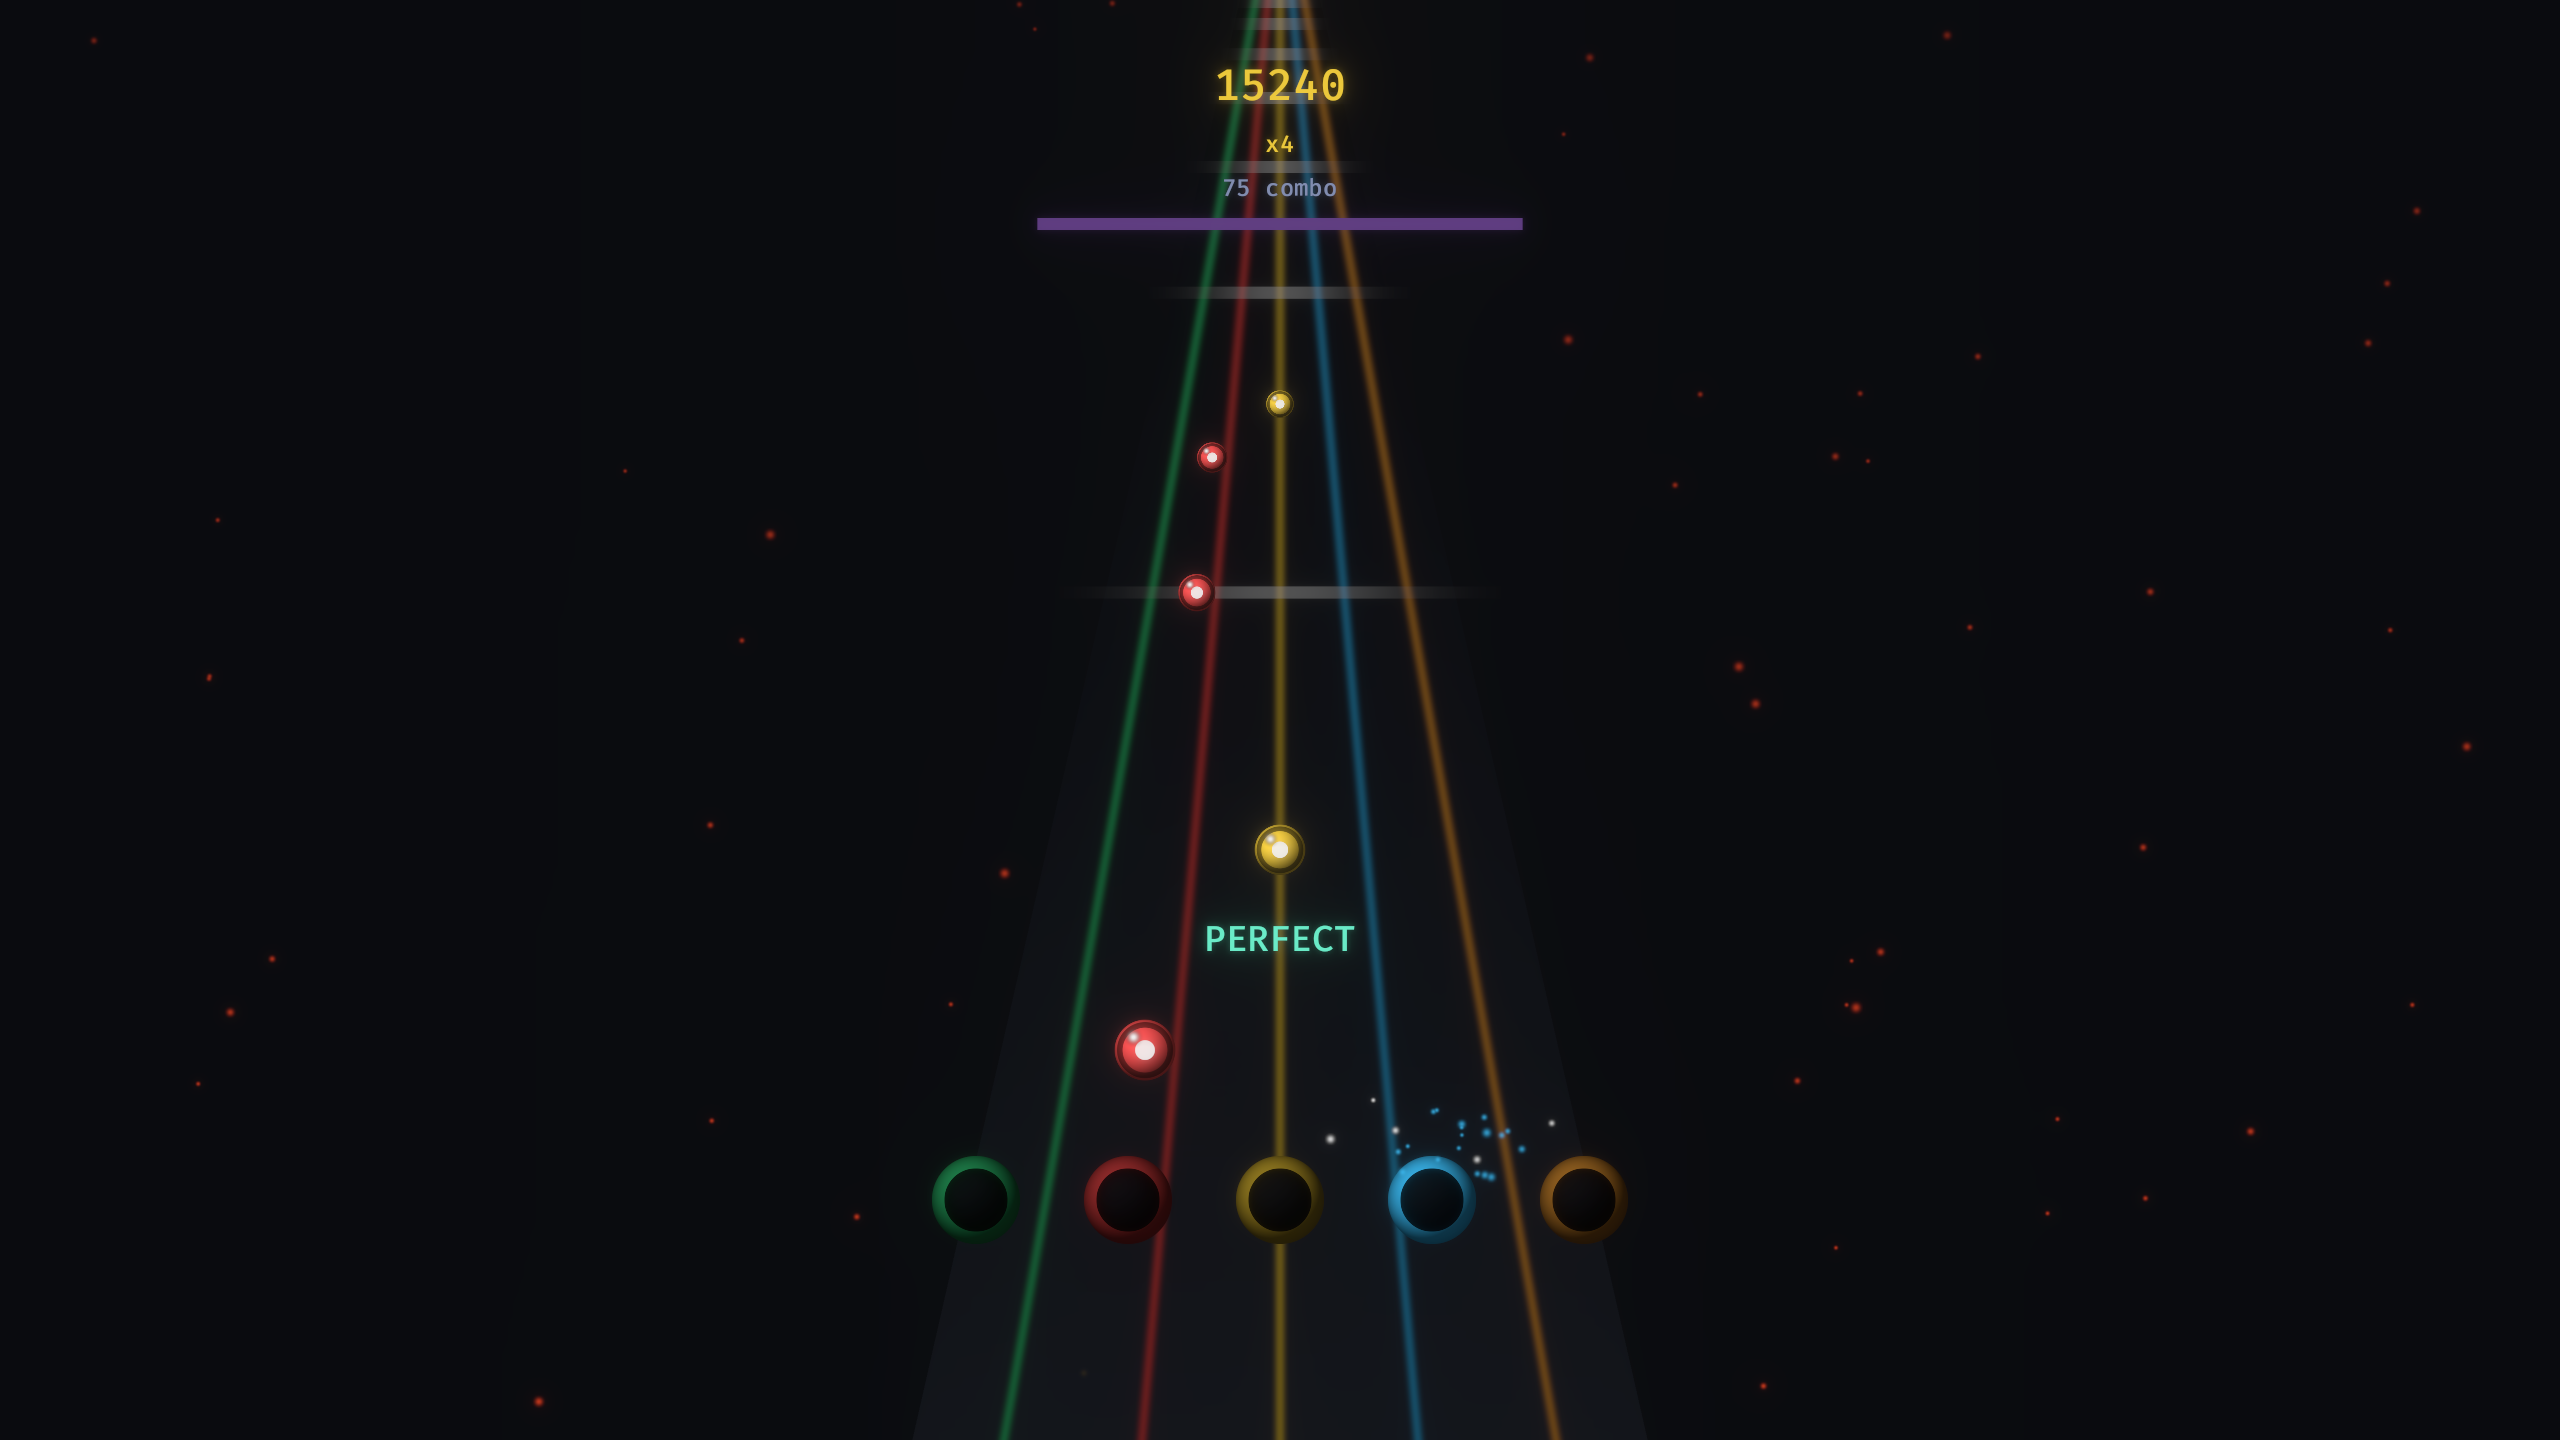
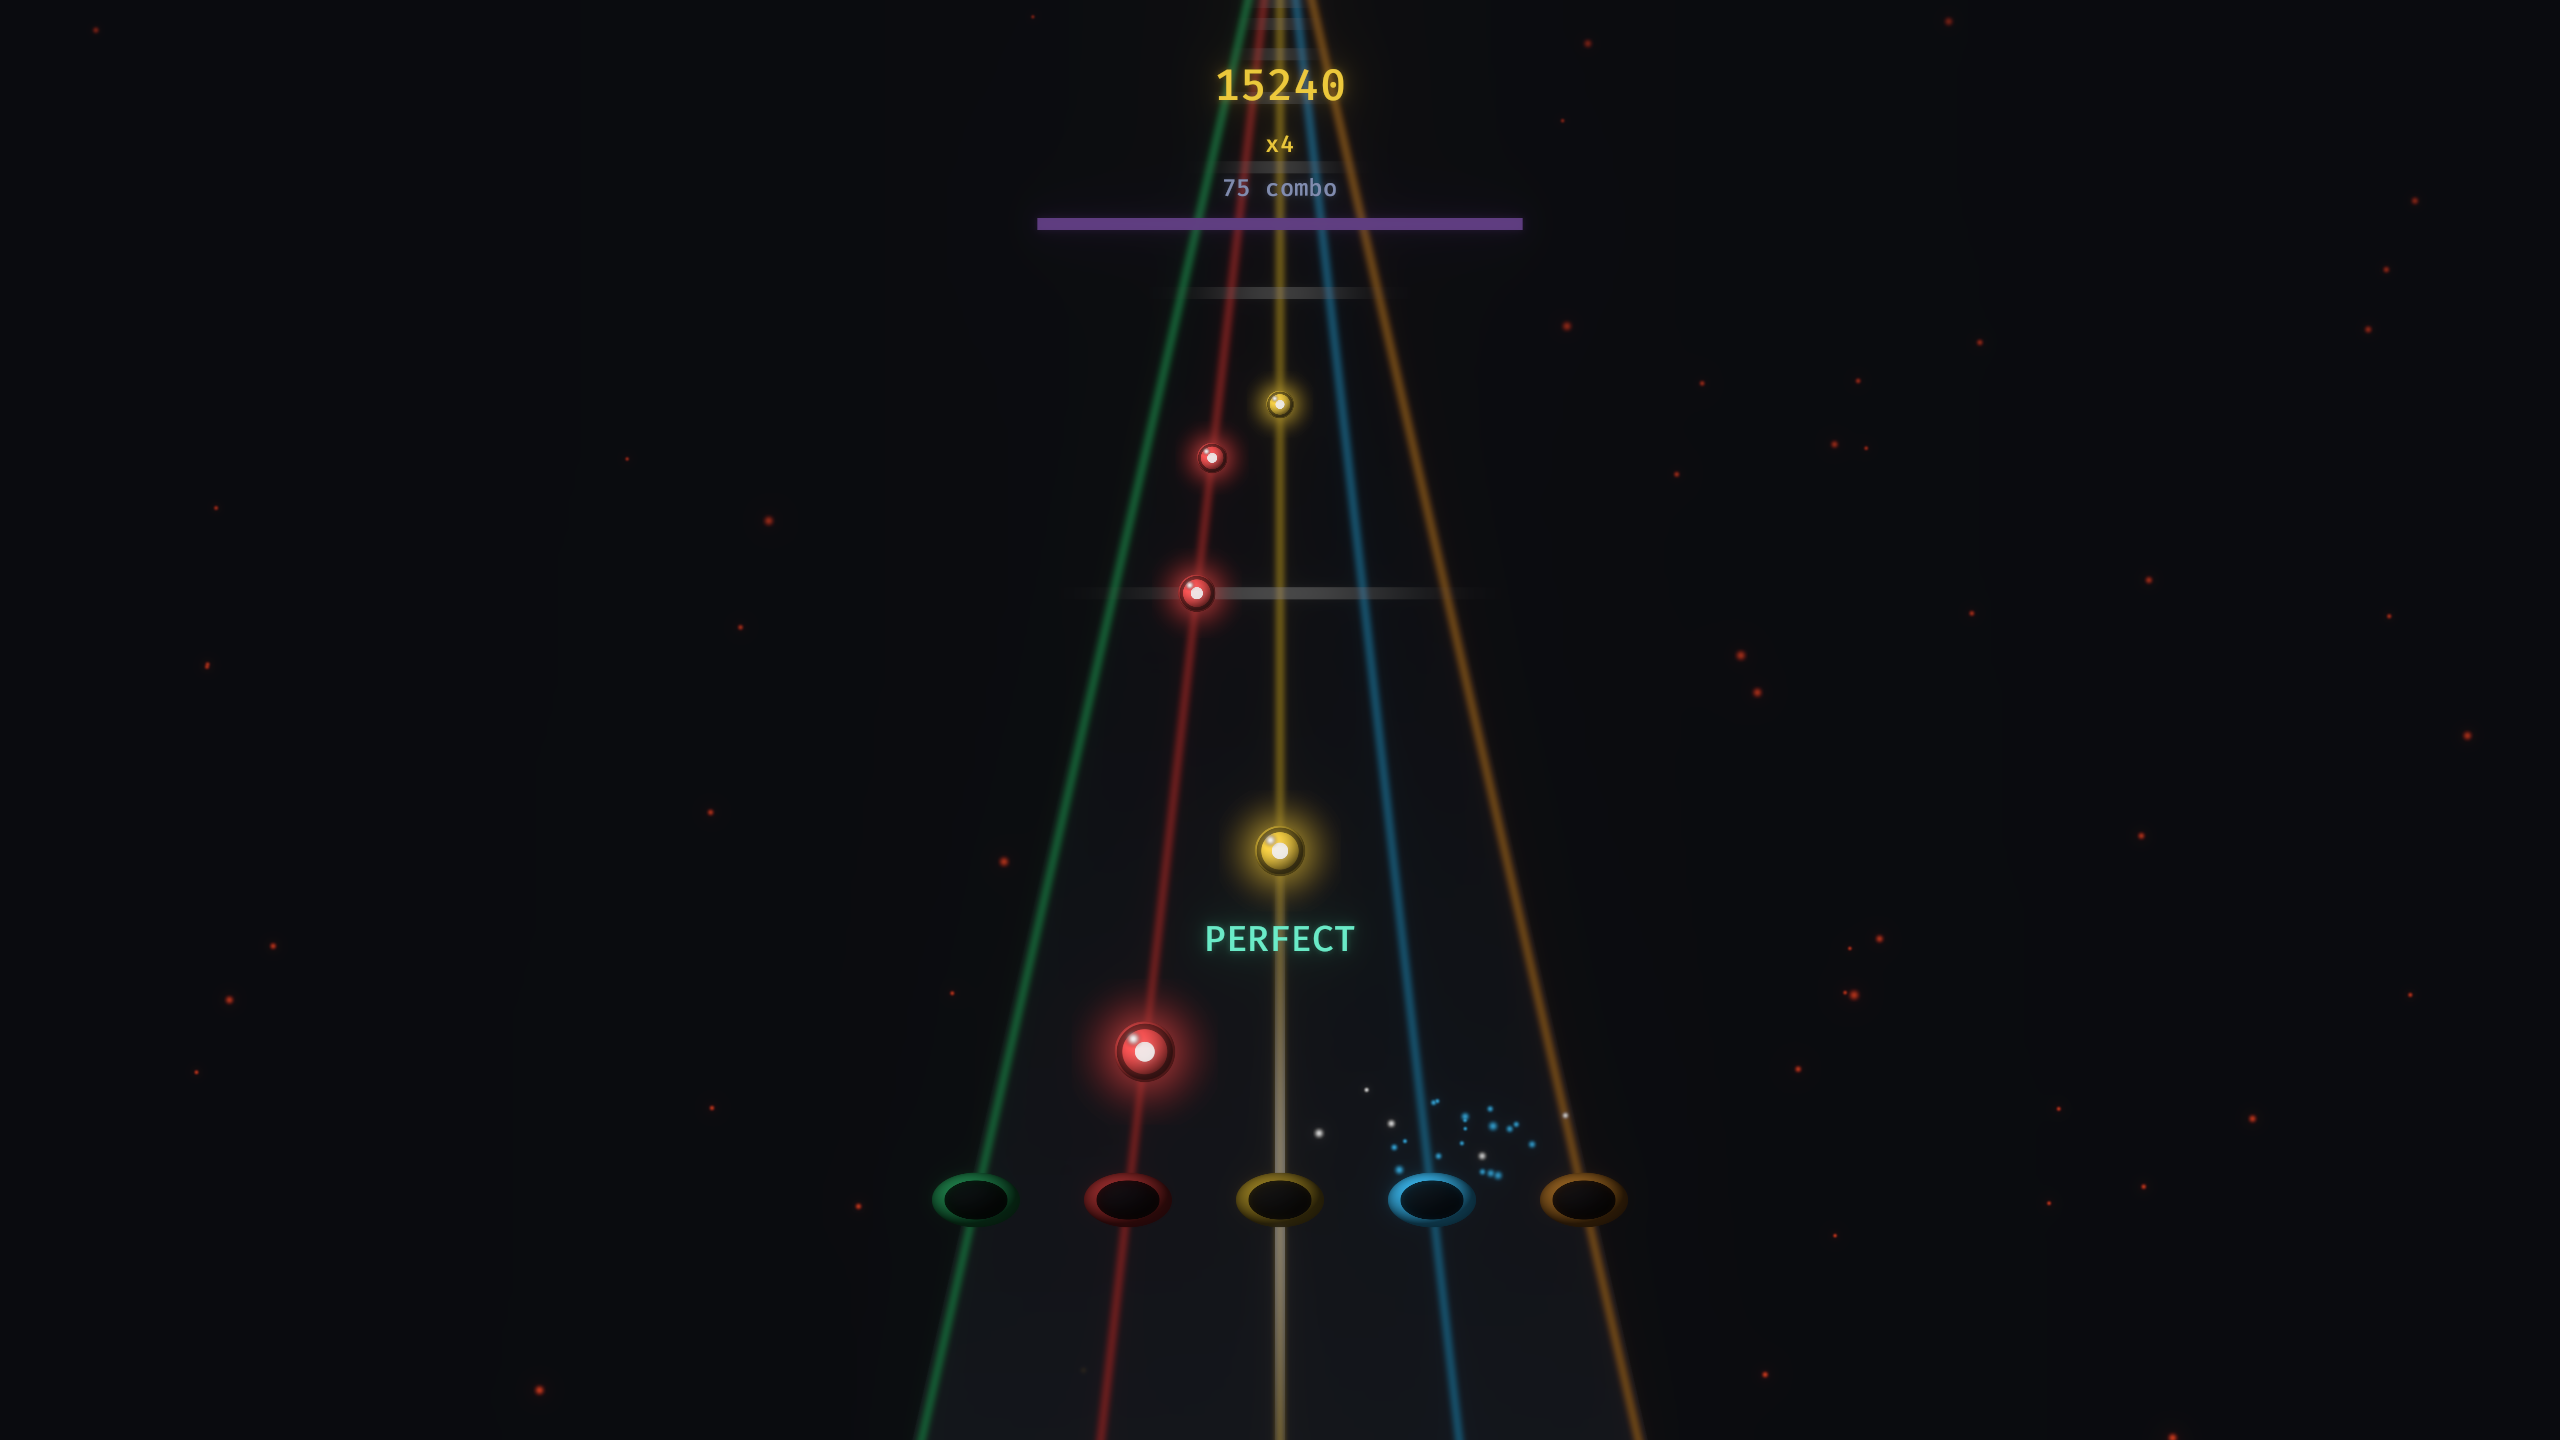
fix: depth-view notes sit ON their strings; stage polish
User screenshot report: 'buttons fallen nicht auf die linien'. The
lane guides were a DIFFERENT straight line than the note path — they
started at full lane width 200 px below the receptors and aimed at
the vanishing point, so notes, receptors and lines never agreed. The
guides are now the exact extension of the line notes travel
(depth::extend_below, pinned by a collinearity test comparing
slopes).

Stage polish on top: receptors lie flat on the board as
perspective-squashed rings, a glowing hit line spans the highway at
the judgment row, every gem carries a soft colored halo (feeds the
bloom), a corner vignette darkens the stage edges, and fret lines
fade with distance instead of stacking into clutter at the horizon.

Verified: notes on their strings across the whole depth (screenshot,
README media updated), autopilot score STILL identical to the flat
view (23640 — presentation only), 8-bit flat regression flawless;
201 tests, full gate.

Claude-Session: https://claude.ai/code/session_01RiAnqD9KnsEEFje2EFHysk

Changed region(s): [[0.3438, 0.0, 0.6562, 1.0]]

diff --git a/crates/beatbyte-game/src/gameplay/notes.rs b/crates/beatbyte-game/src/gameplay/notes.rs
@@ -97,13 +97,30 @@ pub fn spawn_highways(
                 Transform::from_xyz(origin, 0.0, -10.0),
             ));
         }
+        // Stage vignette (round style): darkened corners focus the
+        // lit highway. Sits above backdrop/bed/guides, below notes.
+        if round {
+            commands.spawn((
+                GameplayScreen,
+                Sprite {
+                    image: shapes.vignette(),
+                    color: Color::BLACK,
+                    custom_size: Some(Vec2::new(4200.0, 2400.0)),
+                    ..Default::default()
+                },
+                Transform::from_xyz(0.0, 0.0, -3.0),
+            ));
+        }
         // Lane guide lines — soft glow strips in the round style; in
         // the depth view they lean toward the vanishing point.
         for lane in Lane::ALL {
             let lane_x = layout.lane_x(player, lane);
             let transform = if perspective {
                 let top = Vec2::new(origin, depth::HORIZON_Y);
-                let bottom = Vec2::new(lane_x, RECEPTOR_Y - 200.0);
+                let bottom = Vec2::new(
+                    depth::extend_below(origin, lane_x, 200.0),
+                    RECEPTOR_Y - 200.0,
+                );
                 let delta = top - bottom;
                 let mid = (top + bottom) / 2.0;
                 Transform::from_xyz(mid.x, mid.y, -9.0)
@@ -112,8 +129,12 @@ pub fn spawn_highways(
                 Transform::from_xyz(lane_x, 0.0, -9.0)
             };
             let length = if perspective {
-                (Vec2::new(origin, depth::HORIZON_Y) - Vec2::new(lane_x, RECEPTOR_Y - 200.0))
-                    .length()
+                (Vec2::new(origin, depth::HORIZON_Y)
+                    - Vec2::new(
+                        depth::extend_below(origin, lane_x, 200.0),
+                        RECEPTOR_Y - 200.0,
+                    ))
+                .length()
             } else {
                 900.0
             };
@@ -136,6 +157,27 @@ pub fn spawn_highways(
         // background copy. 8-bit style keeps the per-lane shapes
         // (colorblind-safe default); round style uses discs.
         let receptor = layout.receptor_size();
+        // Depth view: receptors LIE on the board — a flattened ring
+        // sells the perspective; and a glowing hit line spans the
+        // highway where notes are judged.
+        let squash = if perspective { 0.62 } else { 1.0 };
+        if perspective {
+            commands.spawn((
+                GameplayScreen,
+                Sprite {
+                    image: if round {
+                        shapes.glow_strip()
+                    } else {
+                        Handle::default()
+                    },
+                    color: Color::srgba(1.0, 1.0, 1.0, 0.16),
+                    custom_size: Some(Vec2::new(layout.bed_width() * 1.02, 5.0)),
+                    ..Default::default()
+                },
+                Transform::from_xyz(origin, RECEPTOR_Y, -6.0)
+                    .with_rotation(Quat::from_rotation_z(core::f32::consts::FRAC_PI_2)),
+            ));
+        }
         for lane in Lane::ALL {
             let x = layout.lane_x(player, lane);
             commands.spawn((
@@ -148,12 +190,12 @@ pub fn spawn_highways(
                     palette::dimmed(theme.lane_color(lane), 0.35),
                     receptor,
                 ),
-                Transform::from_xyz(x, RECEPTOR_Y, -5.0),
+                Transform::from_xyz(x, RECEPTOR_Y, -5.0).with_scale(Vec3::new(1.0, squash, 1.0)),
             ));
             commands.spawn((
                 GameplayScreen,
                 gem_sprite(shapes, lane, round, theme.background, receptor * 0.72),
-                Transform::from_xyz(x, RECEPTOR_Y, -4.0),
+                Transform::from_xyz(x, RECEPTOR_Y, -4.0).with_scale(Vec3::new(1.0, squash, 1.0)),
             ));
         }
     }
@@ -237,6 +279,15 @@ fn spawn_event_sprites(
             .id();
         if round {
             commands.entity(entity).with_children(|parent| {
+                parent.spawn((
+                    Sprite {
+                        image: shapes.soft_dot(),
+                        color: color.with_alpha(0.4),
+                        custom_size: Some(Vec2::splat(gem * 2.4)),
+                        ..Default::default()
+                    },
+                    Transform::from_xyz(0.0, 0.0, -0.5),
+                ));
                 parent.spawn((
                     Sprite {
                         image: shapes.sphere_gloss(),
@@ -381,6 +432,16 @@ pub mod depth {
     pub fn lane_x(center: f32, flat_x: f32, scale: f32) -> f32 {
         center + (flat_x - center) * scale
     }
+
+    /// Where the lane's vanishing line sits `dy_below` px BELOW the
+    /// hit line — the same straight line notes travel, extended past
+    /// the receptors. The first guides used a different line (full
+    /// lane width at receptor−200 aimed at the vanishing point) and
+    /// every note visibly missed its string.
+    #[must_use]
+    pub fn extend_below(center: f32, flat_x: f32, dy_below: f32) -> f32 {
+        flat_x + (flat_x - center) * dy_below / (HORIZON_Y - RECEPTOR_Y)
+    }
 }
 
 /// A bar line ("fret") across the highway — round style only, the
@@ -431,7 +492,7 @@ pub fn spawn_fret_lines(
 
 /// Scroll the bar lines with the song, like notes.
 pub fn move_fret_lines(
-    mut lines: Query<(&FretLine, &mut Transform)>,
+    mut lines: Query<(&FretLine, &mut Transform, &mut Sprite)>,
     game_clock: Res<GameClock>,
     time: Res<Time>,
     settings: Res<Settings>,
@@ -439,12 +500,15 @@ pub fn move_fret_lines(
     let Some(now) = game_clock.song_time(&time) else {
         return;
     };
-    for (line, mut transform) in &mut lines {
+    for (line, mut transform, mut sprite) in &mut lines {
         let z = ((line.time_s - now) as f32) * settings.scroll_speed;
         if settings.perspective {
             let (y, scale) = depth::project(z);
             transform.translation.y = if z >= 0.0 { y } else { RECEPTOR_Y + z };
             transform.scale = Vec3::new(scale.min(1.0), 1.0, 1.0);
+            // Fade with distance — a wall of equal-strength lines
+            // near the horizon reads as clutter, not depth.
+            sprite.color = sprite.color.with_alpha(0.02 + 0.10 * scale.min(1.0));
         } else {
             transform.translation.y = RECEPTOR_Y + z;
         }
@@ -704,6 +768,19 @@ mod depth_tests {
             last_y = y;
             last_scale = scale;
         }
+    }
+
+    #[test]
+    fn guide_extension_is_collinear_with_the_note_path() {
+        // The line notes travel: (flat_x, RECEPTOR_Y) -> (center, HORIZON_Y).
+        let (center, flat_x, dy) = (100.0_f32, 400.0_f32, 200.0_f32);
+        let below_x = depth::extend_below(center, flat_x, dy);
+        let slope_path = (center - flat_x) / (depth::HORIZON_Y - RECEPTOR_Y);
+        let slope_ext = (flat_x - below_x) / dy;
+        assert!(
+            (slope_path - slope_ext).abs() < 1e-4,
+            "guide extension bends off the note path: {slope_path} vs {slope_ext}"
+        );
     }
 
     #[test]

diff --git a/crates/beatbyte-game/src/shapes.rs b/crates/beatbyte-game/src/shapes.rs
@@ -31,6 +31,7 @@ pub struct LaneShapes {
     tube: Handle<Image>,
     glow_strip: Handle<Image>,
     bed_gradient: Handle<Image>,
+    vignette: Handle<Image>,
 }
 
 impl LaneShapes {
@@ -104,6 +105,12 @@ impl LaneShapes {
     pub fn bed_gradient(&self) -> Handle<Image> {
         self.bed_gradient.clone()
     }
+
+    /// The stage vignette overlay.
+    #[must_use]
+    pub fn vignette(&self) -> Handle<Image> {
+        self.vignette.clone()
+    }
 }
 
 /// Builds the shape images at startup.
@@ -134,6 +141,7 @@ fn build_shapes(mut commands: Commands, mut images: ResMut<Assets<Image>>) {
         tube: images.add(shaded_image(tube_shading)),
         glow_strip: images.add(shaded_image(glow_strip_shading)),
         bed_gradient: images.add(shaded_image(bed_shading)),
+        vignette: images.add(shaded_image(vignette_shading)),
     });
 }
 
@@ -203,6 +211,15 @@ pub fn tube_shading(u: f32, _v: f32) -> Shade {
 pub fn glow_strip_shading(u: f32, _v: f32) -> Shade {
     let d = (u * 2.0 - 1.0).abs();
     (1.0, (-d * d * 5.0).exp() * 0.9)
+}
+
+/// Stage vignette: clear center, darkened corners — pulls the eye to
+/// the highway like a lit stage in a dark venue.
+#[must_use]
+pub fn vignette_shading(u: f32, v: f32) -> Shade {
+    let (dx, dy) = (u * 2.0 - 1.0, v * 2.0 - 1.0);
+    let r = (dx * dx + dy * dy).sqrt();
+    (0.0, ((r - 0.55) / 0.6).clamp(0.0, 1.0).powi(2) * 0.6)
 }
 
 /// Highway-bed depth gradient: darker far (top), lighter near.

diff --git a/docs/ROADMAP.md b/docs/ROADMAP.md
@@ -177,6 +177,7 @@ chart format v1 can be frozen as a promise.
 
 - [x] G9 **AAA polish for the round style.** HDR Bloom component synced to the style at runtime; shading-function texture suite (lit sphere, gloss, gaussian dot, tube, glow strip, bed gradient — 5 geometry/lighting tests); emissive gem tint feeds the bloom. Honest scope note: this is 2D done well, not photorealism — a 3D/PBR look would be a renderer rewrite. *Verified: flawless runs both styles; screenshots; 8-bit unchanged.*
 
+- [x] G11 **Depth-view geometry fix + stage polish.** User screenshot: notes ran beside the lines — the guides used a DIFFERENT straight line than the note path; now they are its exact extension (`depth::extend_below`, collinearity-pinned). Polish: flattened receptor rings, glowing hit line, per-gem halos, corner vignette, distance-faded fret lines. *Verified: identical score again (23640), screenshot shows notes ON strings.*
 - [x] G10 **Depth view (vanishing-point highway).** `depth::project` (pure, 3 tests: identity at the hit line, monotonic climb/shrink, lane convergence), per-frame projected notes/fret lines/sustains, leaning lane guides, trapezoid bed as a real 2D mesh. Both views coexist as a settings row. *Verified: IDENTICAL autopilot score flat vs depth (23640) — presentation only; screenshots; 8-bit untouched.*
 
 ### F — Release engineering to 1.0

diff --git a/CHANGELOG.md b/CHANGELOG.md
@@ -7,7 +7,21 @@ and this project adheres to [Semantic Versioning](https://semver.org/spec/v2.0.0
 
 ## [Unreleased]
 
+### Fixed
+
+- **Depth view: notes now sit exactly ON their lane lines.** The
+  guides were drawn on a different straight line than the note path
+  (full lane width 200 px below the receptors, aimed at the vanishing
+  point) — everything visibly missed its string. The guides are now
+  the extension of the exact line notes travel (pinned by a
+  collinearity test).
+
 ### Added
+
+- **Stage polish for the depth view**: receptors lie flat on the
+  board (perspective-squashed rings), a glowing hit line spans the
+  highway, every gem carries a colored halo, a stage vignette darkens
+  the corners, and fret lines fade with distance.
 
 - **Depth view** ("View: Depth" in settings, next to the flat
   classic): the highway becomes a real trapezoid running into a
